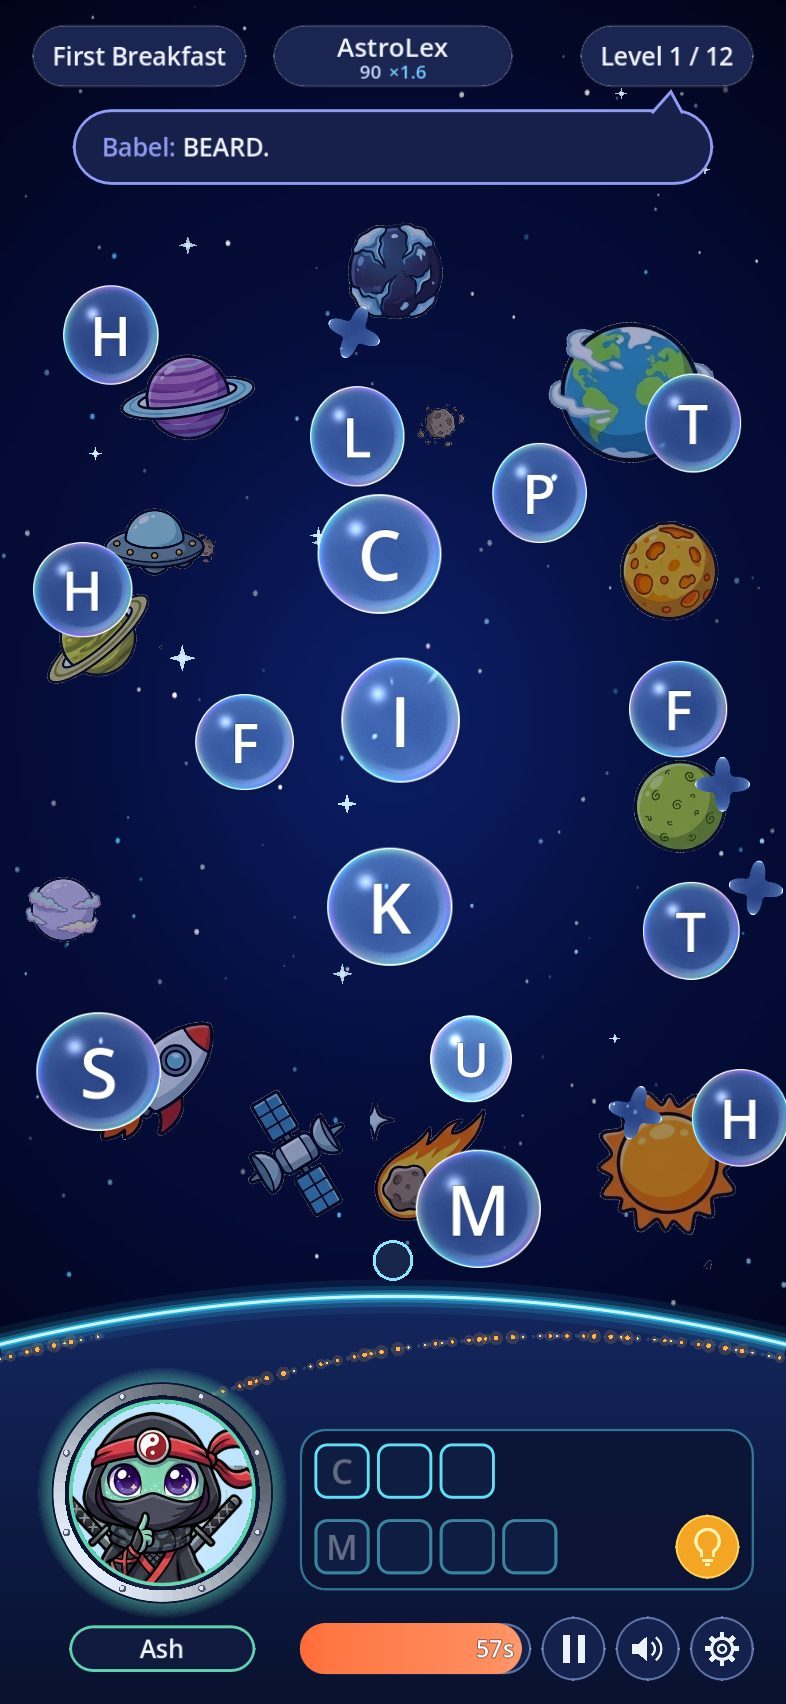
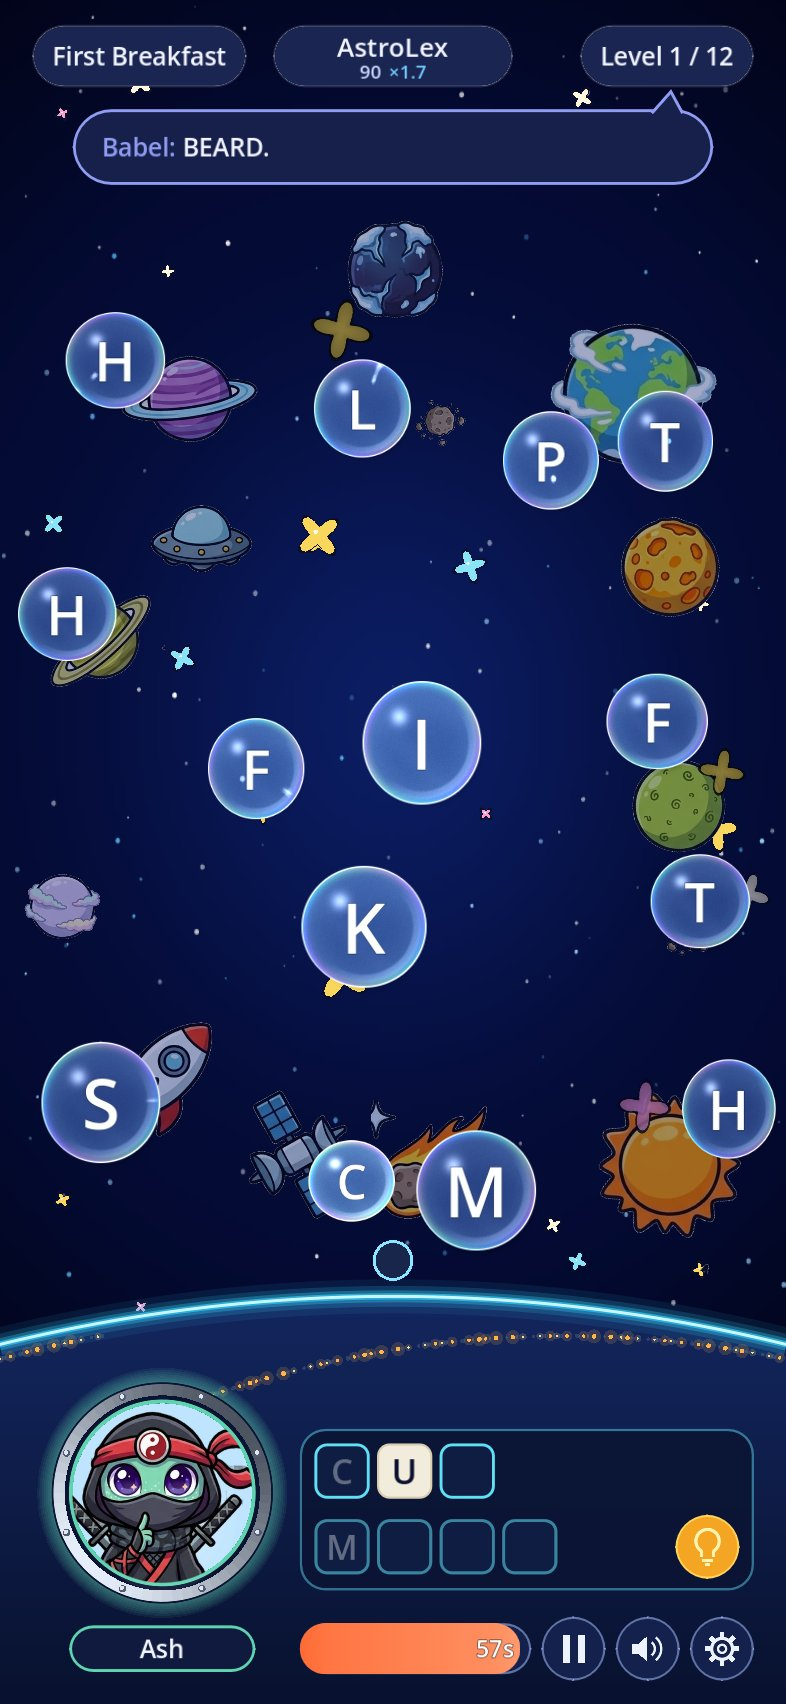
WP-3.I: sticker stars, shooting stars and a subtle bubble pulse (owner feedback)
Back-plane debris and backdrop sparkles become sticker stars in the
sheet's colours with an ink outline; they twinkle and turn, and a
shooting star crosses every few seconds. Letter bubbles breathe by
1.5 % (tile.pulse, tile.pulseHz). Reduced motion stops all of it.

Claude-Session: https://claude.ai/code/session_01FKb8eSDw83awM959Qn24cn

diff --git a/reports/WP-3.I/evidence.md b/reports/WP-3.I/evidence.md
@@ -4,12 +4,13 @@ Branch `claude/project-thread-4bg9x3`, 12 Oct 2026.
 
 | AC | Result | Check | Artefact |
 |---|---|---|---|
-| AC1 | pass | `scripts/godot/test.sh`: `test_spawn_never_overlaps_catchable_tiles`, `test_catchable_tiles_keep_their_gap_while_drifting`, `test_head_on_pair_bounces` (test_round.gd) | log: 157 passed, 0 failed |
+| AC1 | pass | `scripts/godot/test.sh`: `test_spawn_never_overlaps_catchable_tiles`, `test_catchable_tiles_keep_their_gap_while_drifting`, `test_head_on_pair_bounces` (test_round.gd) | log: 159 passed, 0 failed |
 | AC2 | pass | `python -m astrolex_tools.validate_data` → ok; `python -m astrolex_tools.export_game_data` leaves no diff | `data/tunables/game.json` `tile.minGap: 0.03`, `tile.size: 0.13` |
 | AC3 | pass | `test_hud_follows_the_owner_mock` (test_hud.gd) | `phone-393x852-ash.jpg`, `phone-405x720-juno.jpg` |
 | AC4 | pass | `test_backdrop_regains_colour_as_words_are_restored` (test_hud.gd) | screenshots |
 | AC4b | pass | `test_sky_drifters_move_behind_the_letters`, `test_sky_drifters_hold_still_under_reduced_motion` (test_hud.gd) | screenshots |
-| AC5 | pass | `scripts/godot/test.sh` 157/0, no SCRIPT ERROR; `scripts/godot/export.sh web` exit 0; `node smoke.cjs ../../../build/web` → "ok: main scene ran" | — |
+| AC4c | pass | `test_back_plane_is_a_glyphless_sticker_star`, `test_bubble_pulse_is_extremely_subtle` (test_glass.gd), `test_backdrop_has_sticker_sparkles_and_shooting_stars` (test_hud.gd) | `phone-393x852-ash.jpg`; `data/tunables/game.json` `tile.pulse: 0.015`, `tile.pulseHz: 0.45`, `plane.backAlpha: 0.85` |
+| AC5 | pass | `scripts/godot/test.sh` 159/0, no SCRIPT ERROR; `scripts/godot/export.sh web` exit 0; `node smoke.cjs ../../../build/web` → "ok: main scene ran" | — |
 
 Notes
 - Spawn uses up to 64 tries per tile (act 1 round 1 packs about 22 catchable tiles); if none fits, the last try is kept and the per-tick separation pushes the pair apart within a few frames. Denser acts rely on that.
@@ -18,3 +19,4 @@ Notes
 - 13 Oct: sky restyled after two owner references (cartoon planets on a starry blue night) and the card choice "Just behind letters".
 - 13 Oct (owner: "make the letters a bit larger", "planets more colourful"): `tile.size` 0.12 → 0.13 and the glyph from 0.62 to 0.68 of the tile; `tile.minGap` 0.04 → 0.03 so the larger letters still pack; planets keep full colour (the start-of-level drain now applies to the sky only) with brighter palettes and lighter shading.
 - 13 Oct (owner sticker sheet and layout mock `docs/design/mock-v2.jpg`): the drawn planets and craft are replaced by the owner's stickers in `game/art/space/` (licence to be confirmed by the owner, see its README), and the HUD is rebuilt to the mock. Points sit under "AstroLex" in the centre chip and the seconds inside the timer pill, since the mock has no place for them. The level chip shows the level's name only.
+- 13 Oct (owner: "make the stars a bit more interesting", "make the letter bubble pulsate, extremely subtle"): the back-plane debris and the backdrop sparkles are now sticker stars in the sheet's colours (gold, cream, cyan, pink) with an ink outline and a white glint; they twinkle and turn, and a shooting star crosses every few seconds. Back-plane alpha 0.28 → 0.85 so they read. Letter bubbles breathe by ±1.5 % at 0.45 Hz (`tile.pulse`, `tile.pulseHz`). Under reduced motion there is no pulse, twinkle or shooting star.

diff --git a/wps/WP-3.I.md b/wps/WP-3.I.md
@@ -6,7 +6,7 @@ Owner feedback (12 Oct 2026, thread "design") on the merged WP-3.H screen: "the 
 - **Letters never overlap:** catchable tiles (planes 0 and 1) keep a gap of `tile.minGap` (field units, default 0.03, a tunable); letters are larger (`tile.size` 0.13, glyph 0.68 of the tile). Spawns are rejection-sampled; drifting tiles that come too close bounce apart.
 - **Readable letters:** the backdrop behind the play field is calm and dark (no bright nebula blobs behind the glass).
 - **One grid:** 48 px margins on both sides. Left column: portrait. Right column: info row (NEXT boxes at left, points and combo at right), slot tray, four buttons, all sharing the column's edges. Full-width clock bar at the bottom. Top chips and Babel's band on the same margins. The night panel's curve is symmetric.
-- **Sky (owner references and card choice, 13 Oct 2026):** the backdrop is just stars: a deep blue night with white dots and twinkling four-point sparkles. Cartoon planets with ink outlines (Earth with clouds, a ringed planet, a sun with rays, an orange, a blue, a red and a grey one), asteroids, a rocket, a satellite and fiery meteors move through the play field **just behind the letters** (owner pick "Just behind letters"): slower than the letters, never on top of them, and taps pass through. Planets turn and bob; under reduced motion nothing drifts. This replaces the first pass on this branch (galaxy band, Moon, sunrise).
+- **Sky (owner references and card choice, 13 Oct 2026):** the backdrop is just stars: a deep blue night with white dots, twinkling sticker stars in the sheet's colours (ink outline, white glint) and a shooting star every few seconds (owner, 13 Oct: "make the stars a bit more interesting"). The far debris is drawn as the same sticker stars. Letter bubbles breathe with an extremely subtle pulse (±1.5 %, tunable `tile.pulse`). Cartoon planets with ink outlines (Earth with clouds, a ringed planet, a sun with rays, an orange, a blue, a red and a grey one), asteroids, a rocket, a satellite and fiery meteors move through the play field **just behind the letters** (owner pick "Just behind letters"): slower than the letters, never on top of them, and taps pass through. Planets turn and bob; under reduced motion nothing drifts. This replaces the first pass on this branch (galaxy band, Moon, sunrise).
 - **Colour story (§9):** the scene starts drained and regains its colour, and Earth's city lights come on, as the level's words are restored.
 
 - **Owner art and layout (13 Oct 2026):** the planets, sun, asteroids, meteor, rocket, satellite, UFOs and spaceship are the owner's sticker sheet (`docs/design/space-stickers-sheet.jpg`), cut out into `game/art/space/`. The screen follows the owner's mock `docs/design/mock-v2.jpg`: level name, "AstroLex" (with the points under it) and "Level n / N" chips at the top; Babel's speech bubble under them; planets framing the field, each looping around its home spot; Earth's glowing rim with city lights; a porthole portrait with bolts and a name pill; a tray with the active word on the first row, the next word on the second and a round Hint button; a timer pill and round Pause, Sound and Settings buttons.
